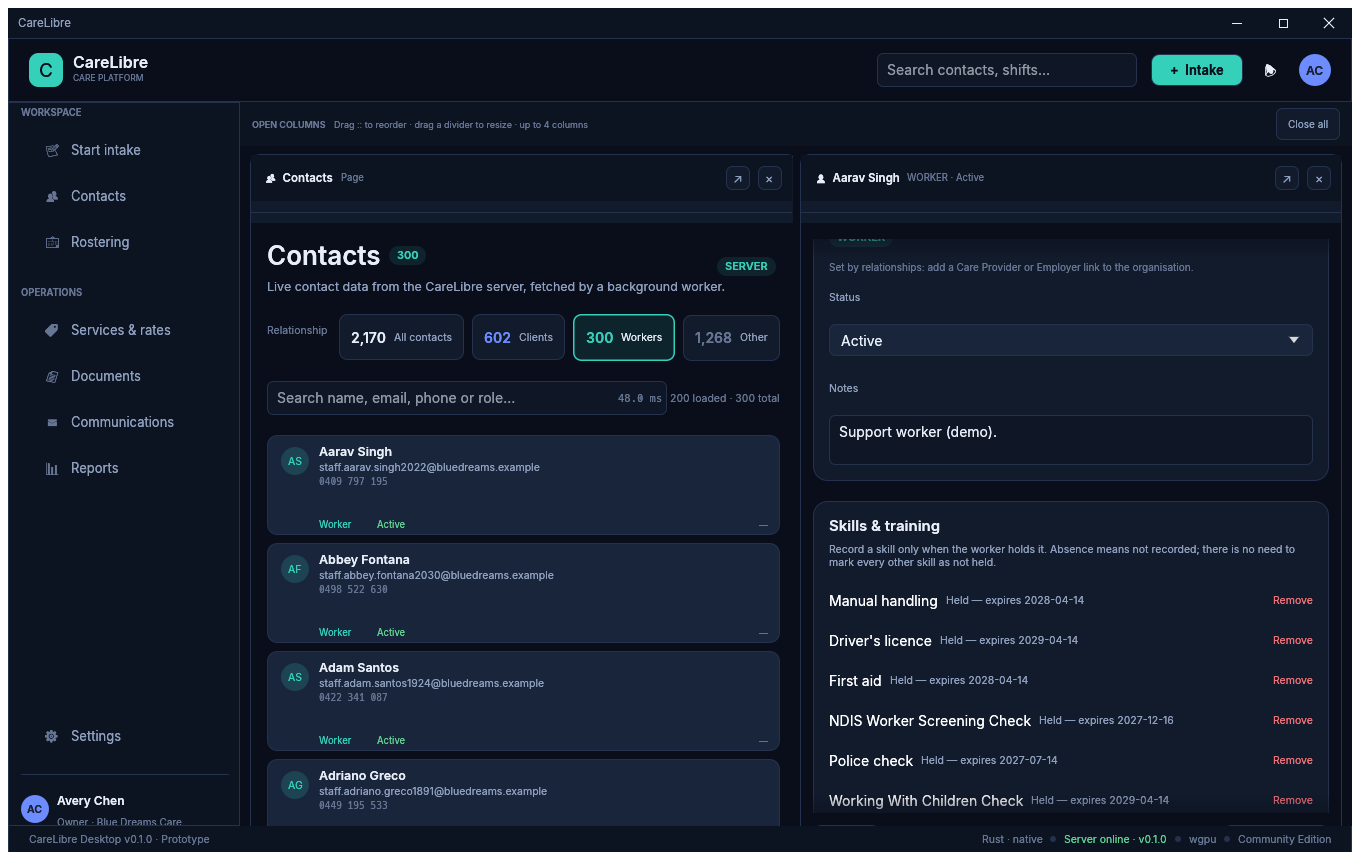
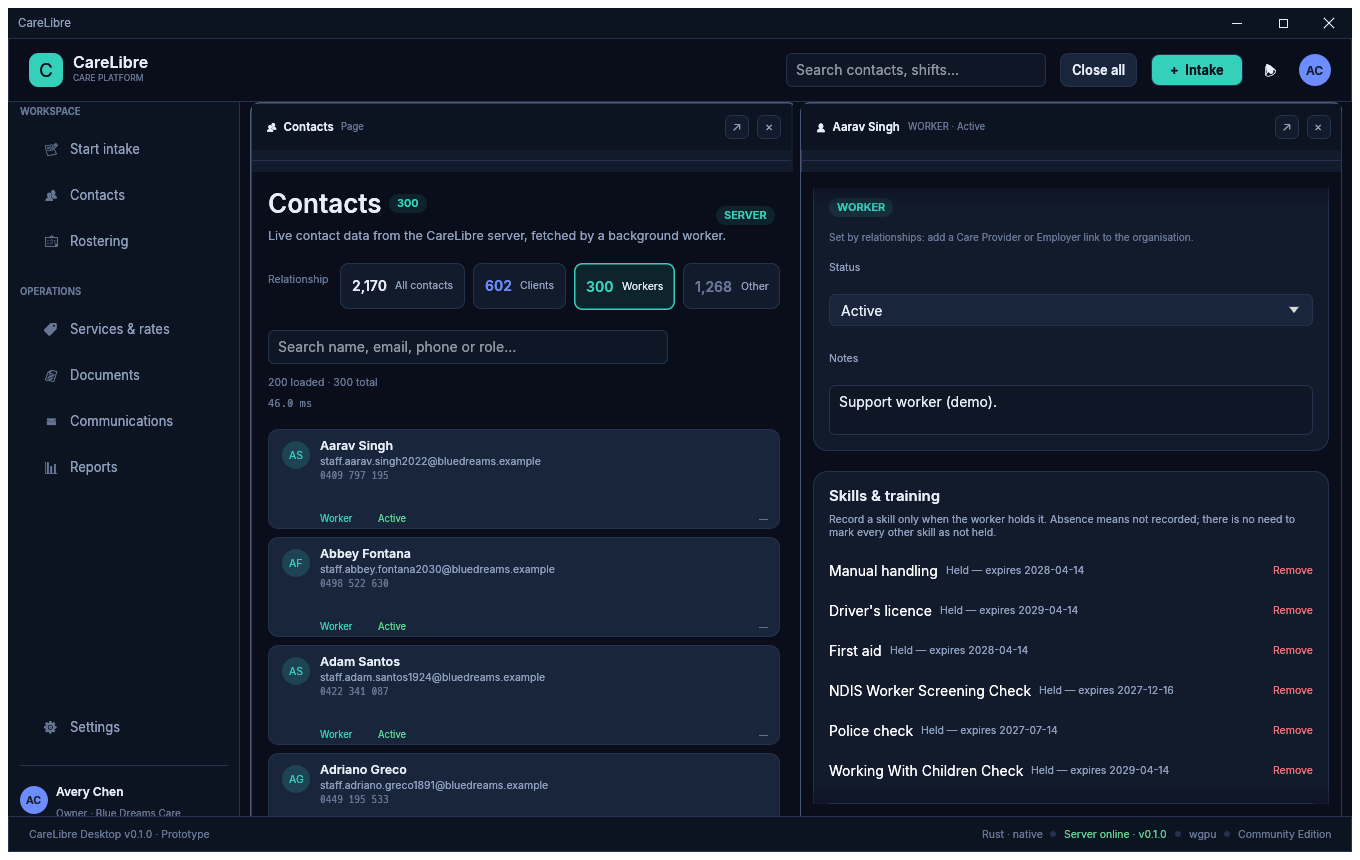
Polish column chrome and move Close all into the top bar
Removes the menu pane's top border, enforces a minimum column width, strengthens the rounded column borders, gives the status bar proper height and vertical centring, removes the Open columns bar, and moves Close all into the top bar where it appears only when more than one column is open. Also includes the latest narrow-column header, filter, search and draft-card reflow work.

diff --git a/src/app.rs b/src/app.rs
@@ -463,6 +463,30 @@ impl CareLibreApp {
         column.anim_start = now;
     }
 
+    fn close_all_columns(&mut self, now: f64) {
+        let ids: Vec<String> = self.contact_windows.keys().cloned().collect();
+        for id in ids {
+            self.close_contact_window(&id);
+        }
+        let pages: Vec<Page> = self
+            .columns
+            .iter()
+            .filter_map(|column| match &column.kind {
+                ColumnKind::Page(page) => Some(*page),
+                ColumnKind::Contact(_) => None,
+            })
+            .collect();
+        for page in pages {
+            if let Some(index) = self
+                .columns
+                .iter()
+                .position(|column| matches!(column.kind, ColumnKind::Page(open) if open == page))
+            {
+                self.begin_column_close(index, now);
+            }
+        }
+    }
+
     fn cancel_column_close(&mut self, index: usize) {
         let column = &mut self.columns[index];
         column.closing = false;
@@ -1854,7 +1878,6 @@ impl CareLibreApp {
         let mut page_action = None;
         let mut close: Option<String> = None;
         let mut close_page: Option<Page> = None;
-        let mut close_all = false;
         let mut resize: Option<(usize, usize, f32)> = None;
         let mut editor_actions: Vec<(String, ContactEditorAction)> = Vec::new();
 
@@ -1875,67 +1898,14 @@ impl CareLibreApp {
         if visible.is_empty() {
             return page_action;
         }
-        let has_contact_columns = visible
-            .iter()
-            .any(|index| matches!(self.columns[*index].kind, ColumnKind::Contact(_)));
-
         let viewport_width = ui.available_width();
         let strip_width = (viewport_width - COLUMN_STRIP_PADDING * 2.0).max(1.0);
         let now = ui.ctx().input(|input| input.time);
         let max_total_columns = (((strip_width + 7.0) / (COLUMN_MIN_WIDTH + 7.0)).floor() as usize)
             .clamp(1, MAX_RECORD_COLUMNS + 1);
         self.max_total_columns = max_total_columns;
-        let over_limit = self.visible_column_count() > self.max_total_columns;
         let content_width = self.normalise_column_widths(&visible, strip_width, now);
         let handle_width = 7.0;
-
-        if has_contact_columns || visible.len() > 1 || over_limit {
-            Frame::new()
-                .fill(theme::sidebar())
-                .inner_margin(Margin::symmetric(12, 6))
-                .show(ui, |ui| {
-                    ui.horizontal(|ui| {
-                        ui.label(
-                            RichText::new("OPEN COLUMNS")
-                                .color(theme::faint())
-                                .font(theme::strong_font(9.0)),
-                        );
-                        ui.label(
-                            RichText::new(format!(
-                                "Drag :: to reorder · drag a divider to resize · up to {} columns",
-                                self.max_total_columns
-                            ))
-                            .color(theme::faint())
-                            .size(9.0),
-                        );
-                        ui.with_layout(Layout::right_to_left(Align::Center), |ui| {
-                            if ui
-                                .add(
-                                    egui::Button::new(
-                                        RichText::new("Close all").color(theme::muted()).size(10.0),
-                                    )
-                                    .fill(theme::surface())
-                                    .stroke(Stroke::new(1.0, theme::border()))
-                                    .corner_radius(CornerRadius::same(6))
-                                    .min_size(vec2(0.0, 22.0)),
-                                )
-                                .clicked()
-                            {
-                                close_all = true;
-                            }
-                        });
-                    });
-                    if over_limit {
-                        ui.label(
-                            RichText::new(
-                                "Window too small for these columns — close one or widen the window.",
-                            )
-                            .color(theme::warning())
-                            .size(9.0),
-                        );
-                    }
-                });
-        }
 
         let height = ui.available_height();
 
@@ -2035,7 +2005,7 @@ impl CareLibreApp {
                     .stroke(if is_dragging {
                         Stroke::new(2.0, theme::accent())
                     } else {
-                        Stroke::new(1.0, theme::border())
+                        Stroke::new(1.5, theme::border_strong())
                     })
                     .corner_radius(CornerRadius::same(10))
                     .inner_margin(Margin::ZERO)
@@ -2204,27 +2174,6 @@ impl CareLibreApp {
         }
         if let Some(id) = close {
             self.close_contact_window(&id);
-        }
-        if close_all {
-            let ids: Vec<String> = self.contact_windows.keys().cloned().collect();
-            for id in ids {
-                self.close_contact_window(&id);
-            }
-            let pages: Vec<Page> = self
-                .columns
-                .iter()
-                .filter_map(|column| match &column.kind {
-                    ColumnKind::Page(page) => Some(*page),
-                    ColumnKind::Contact(_) => None,
-                })
-                .collect();
-            for page in pages {
-                if let Some(index) = self.columns.iter().position(
-                    |column| matches!(column.kind, ColumnKind::Page(open) if open == page),
-                ) {
-                    self.begin_column_close(index, now);
-                }
-            }
         }
         for (id, action) in editor_actions {
             let ctx = ui.ctx().clone();
@@ -2561,6 +2510,38 @@ impl CareLibreApp {
             targets[slot] = (targets[slot] + (usable - sum)).max(1.0);
         }
 
+        // Never let a column collapse to the point where its rounded border
+        // disappears. If the window is too small for the minimums, keep them
+        // and let the rightmost columns be clipped rather than shrinking.
+        let min_total = COLUMN_MIN_WIDTH * visible.len() as f32;
+        if usable < min_total {
+            targets.fill(COLUMN_MIN_WIDTH);
+        } else {
+            for _ in 0..visible.len() {
+                let deficit: f32 = targets
+                    .iter()
+                    .map(|target| (COLUMN_MIN_WIDTH - *target).max(0.0))
+                    .sum();
+                if deficit <= 0.5 {
+                    break;
+                }
+                let flexible: f32 = targets
+                    .iter()
+                    .map(|target| (*target - COLUMN_MIN_WIDTH).max(0.0))
+                    .sum();
+                if flexible <= 0.5 {
+                    break;
+                }
+                for target in &mut targets {
+                    if *target < COLUMN_MIN_WIDTH {
+                        *target = COLUMN_MIN_WIDTH;
+                    } else {
+                        *target -= deficit * (*target - COLUMN_MIN_WIDTH) / flexible;
+                    }
+                }
+            }
+        }
+
         let initialise = !self.columns_initialised;
         for (slot, &index) in visible.iter().enumerate() {
             let target = targets[slot];
@@ -2599,7 +2580,7 @@ impl CareLibreApp {
             };
         }
 
-        viewport_width
+        (targets.iter().sum::<f32>() + handle_total).max(viewport_width)
     }
 
     fn next_rostering_request(&mut self) -> u64 {
@@ -4793,6 +4774,13 @@ impl CareLibreApp {
                             self.open_intake();
                         }
 
+                        if self.visible_column_count() > 1 {
+                            ui.add_space(6.0);
+                            if ui.add(theme::secondary_button("Close all")).clicked() {
+                                self.close_all_columns(self.frame_time);
+                            }
+                        }
+
                         ui.add_space(6.0);
 
                         let search = ui.add_sized(
@@ -4857,12 +4845,14 @@ impl CareLibreApp {
             .exact_size(panel_width)
             .resizable(false)
             .show_separator_line(false)
-            .frame(
-                Frame::new()
-                    .fill(theme::sidebar())
-                    .stroke(Stroke::new(1.0, theme::border())),
-            )
+            .frame(Frame::new().fill(theme::sidebar()))
             .show(ui, |ui| {
+                let panel_rect = ui.max_rect();
+                ui.painter().vline(
+                    panel_rect.right() - 0.5,
+                    panel_rect.y_range(),
+                    Stroke::new(1.0, theme::border()),
+                );
                 let panel_height = ui.available_height();
                 let content_height = panel_height
                     + (CENTERED_MENU_HEIGHT.min(panel_height) - panel_height) * centeredness;
@@ -4979,16 +4969,16 @@ impl CareLibreApp {
         };
 
         egui::Panel::bottom("status_bar")
-            .exact_size(30.0)
+            .exact_size(36.0)
             .show_separator_line(false)
             .frame(
                 Frame::new()
                     .fill(theme::sidebar())
-                    .inner_margin(Margin::symmetric(20, 0))
+                    .inner_margin(Margin::symmetric(20, 4))
                     .stroke(Stroke::new(1.0, theme::border())),
             )
             .show(ui, |ui| {
-                ui.horizontal(|ui| {
+                ui.horizontal_centered(|ui| {
                     ui.label(
                         RichText::new("CareLibre Desktop v0.1.0 · Prototype")
                             .color(theme::faint())

diff --git a/src/theme.rs b/src/theme.rs
@@ -144,6 +144,12 @@ palette_colors!(
     on_accent,
 );
 
+/// Slightly stronger border used by column frames so their rounded edges stay
+/// visible against the workspace background.
+pub fn border_strong() -> Color32 {
+    lerp_color(border(), muted(), 0.35)
+}
+
 fn set_palette(theme: egui::Theme) {
     ACTIVE.store(
         if theme == egui::Theme::Light {

diff --git a/tests/ui.rs b/tests/ui.rs
@@ -229,7 +229,7 @@ fn open_contacts_render_the_column_strip() {
     let mut harness = harness(app);
     harness.run();
 
-    harness.get_by_label("OPEN COLUMNS");
+    harness.get_by_label("Pop out record");
 }
 
 #[test]
